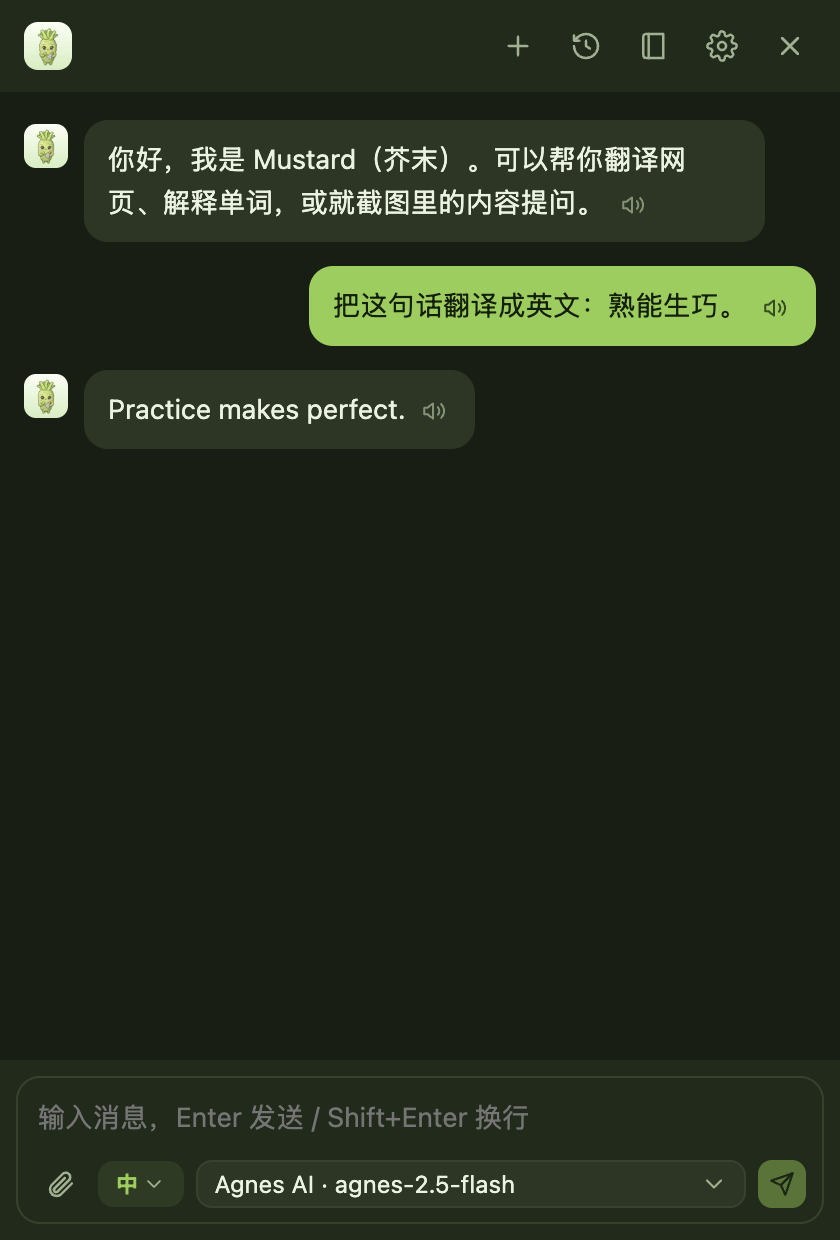
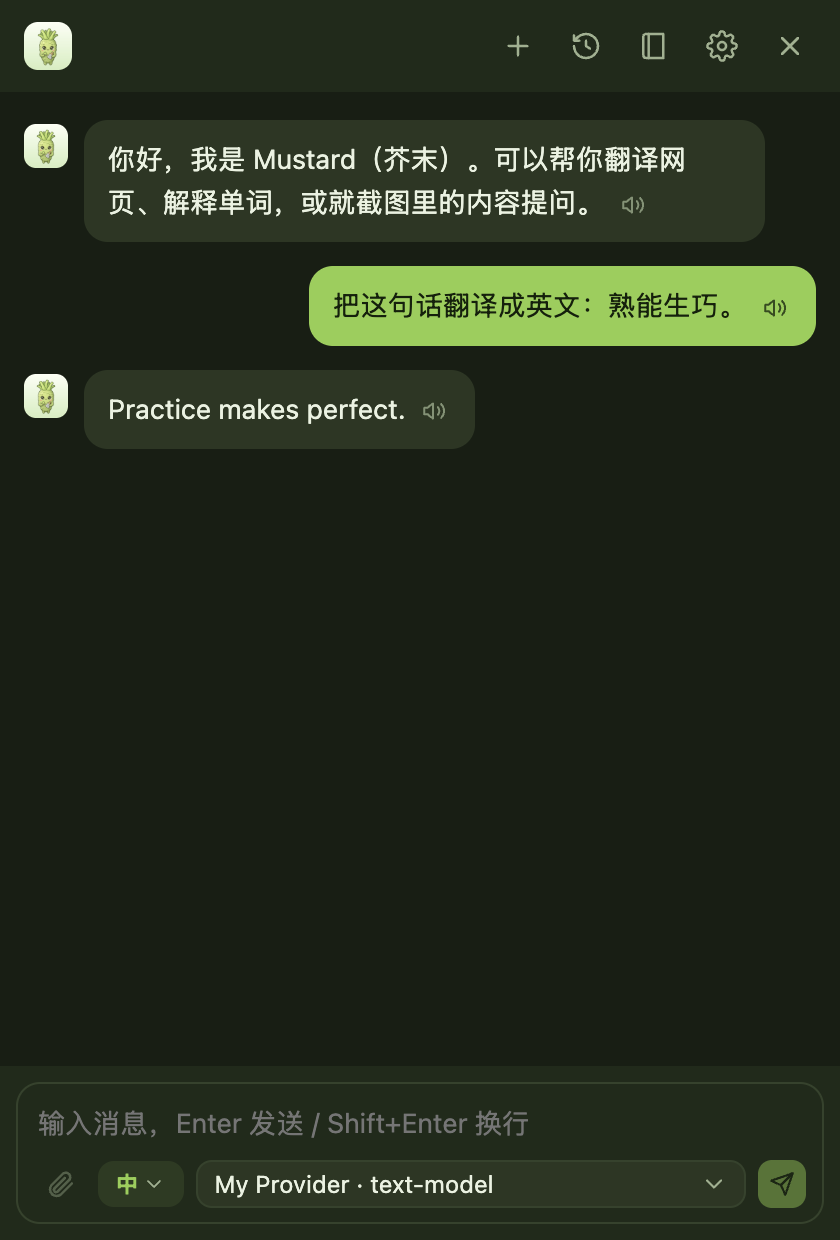
chore(landing): drop provider names from screenshots and copy
- re-shoot the providers / chat / image screenshots with a neutral
  "My Provider · text-model" setup so no third-party provider is shown
- README and landing steps no longer name a default provider; users add one

diff --git a/apps/landing/src/config/content.ts b/apps/landing/src/config/content.ts
@@ -69,7 +69,7 @@ const zh: Content = {
   stepsTitle: '三步上手',
   steps: [
     { n: '01', title: '安装扩展', desc: '从 GitHub Releases 下载 zip 解压，或在开发者模式加载已解压的扩展程序。' },
-    { n: '02', title: '配置模型', desc: '在设置页填入 OpenRouter 或自定义提供商的 API Key（可选，不填也能用词典翻译）。' },
+    { n: '02', title: '配置模型', desc: '在设置页添加模型提供商并填入 API Key（可选，不填也能用词典翻译）。' },
     { n: '03', title: '开始使用', desc: '划词、悬浮或开启网页翻译；打开侧边栏与 AI 对话，收录生词并记词。' },
   ],
   moreTitle: '更多细节',
@@ -132,7 +132,7 @@ const en: Content = {
   stepsTitle: 'Get started in three steps',
   steps: [
     { n: '01', title: 'Install the extension', desc: 'Download the zip from GitHub Releases, or load the unpacked extension in developer mode.' },
-    { n: '02', title: 'Configure a model', desc: 'Add an API key for OpenRouter or a custom provider in settings (optional — dictionary translation works without it).' },
+    { n: '02', title: 'Configure a model', desc: 'Add a model provider and its API key in settings (optional — dictionary translation works without it).' },
     { n: '03', title: 'Start using', desc: 'Select, hover or enable full-page translation; open the side panel to chat, save and practice words.' },
   ],
   moreTitle: 'More details',

diff --git a/README.en.md b/README.en.md
@@ -17,7 +17,7 @@
 | **Vocabulary** | Auto-saved words, pronunciation, delete, import/export (JSON / CSV) |
 | **Dictation practice** | See the word → spell it → verify; **3 correct answers in a row marks it "mastered"**; unmastered words come first |
 | **Offline dictionaries** | Local → online → AI fallback; dictionary data is **not bundled** but **downloaded on first use** (English→Chinese built in by default, plus ECDICT MIT sample and Wordset English), then works offline |
-| **Model providers** | OpenRouter by default (OpenAI-compatible, free models included), custom providers supported; models added one by one with declared input capabilities |
+| **Model providers** | OpenAI-compatible; add your own provider and models, each with declared input capabilities |
 | **Chat history** | Create / switch / delete sessions and reload past conversations |
 | **Target language** | Simplified Chinese by default, 14 languages supported |
 | **Theme** | Wasabi-green design system with a dark mode |
@@ -45,7 +45,7 @@ Then load `apps/extension/.output/chrome-mv3` via **Load unpacked**.
 
 ## Usage
 
-1. **Configure a model (AI features)**: open the extension settings and fill in your OpenRouter API key (or a custom provider), or add a custom provider.
+1. **Configure a model (AI features)**: open the extension settings, add a model provider and fill in its API key.
    Without a key, AI features prompt you to configure one; selection/dictionary features keep working.
 2. **Select-to-translate**: select text on a page, then click the floating icon.
 3. **Full-page translation**: open the floating ball, expand the tools and enable "Page translation".

diff --git a/README.md b/README.md
@@ -17,7 +17,7 @@
 | **生词本** | 自动收录、单词发音、删除、导入导出（JSON / CSV） |
 | **记词** | 听音默写：看词 → 默写 → 验证；**连续答对 3 次自动判定「已掌握」**，优先练习未掌握的词 |
 | **离线词典** | 本地 → 在线 → AI 分级查询；词典数据**不打包**，**首次使用时按需下载**（默认英汉《现代英汉》，另有 ECDICT MIT 示例、Wordset 英英按字母下载），下载后可离线查词 |
-| **模型提供商** | 默认 OpenRouter（OpenAI 兼容，含免费模型），可自定义提供商，模型逐条添加并标注输入能力 |
+| **模型提供商** | OpenAI 兼容，自行添加提供商与模型，模型逐条添加并标注输入能力 |
 | **会话历史** | 新建 / 切换 / 删除会话，随时载入历史对话 |
 | **目标语言** | 默认简体中文，支持 14 种主流语种 |
 | **主题** | 芥末绿视觉体系，含深色模式 |
@@ -45,7 +45,7 @@ pnpm build:ext          # 产物在 apps/extension/.output/chrome-mv3
 
 ## 使用
 
-1. **配置模型（AI 功能）**：打开扩展设置，填入 OpenRouter（或其他提供商）的 API Key，或添加自定义提供商。
+1. **配置模型（AI 功能）**：打开扩展设置，添加模型提供商并填入 API Key。
    未配置 Key 时，AI 相关功能会提示去配置，划词/词典等基础功能仍可使用。
 2. **划词翻译**：在网页中选中文字 → 点击浮出的图标查看译文。
 3. **网页翻译**：点击右下角悬浮球，展开工具后开启「网页翻译」。
